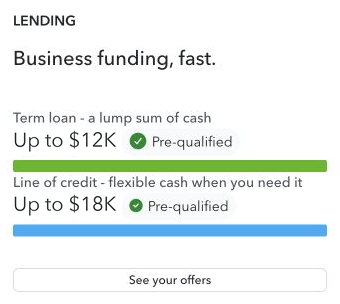
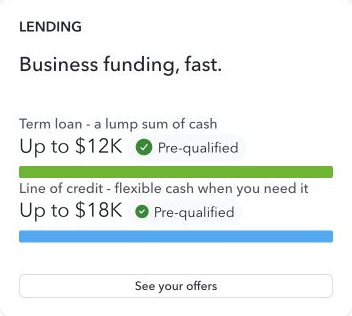
Restore breathing room around example clippings

diff --git a/index.html b/index.html
@@ -34,7 +34,7 @@
 <link rel="stylesheet" href="style.css">
 <link rel="stylesheet" href="articles.css">
 <link rel="stylesheet" href="home.css">
-<link rel="stylesheet" href="comparisons.css?v=3">
+<link rel="stylesheet" href="comparisons.css?v=4">
 <script defer src="comparisons.js?v=2"></script>
 <link rel="canonical" href="https://getparedo.app/">
 </head>
@@ -58,9 +58,9 @@
 <div class="paredo-examples" id="comparisons">
 <div class="noise-controls" hidden data-noise-controls><p id="noise-status" aria-live="polite">01 / 03 · Lending pitches</p><div class="noise-arrows"><button type="button" id="noise-prev" aria-label="Previous example">←</button><button type="button" id="noise-next" aria-label="Next example">→</button></div></div>
 <div class="noise-track" id="noise-track" tabindex="0" role="region" aria-label="Examples of clutter Paredo can hide. Swipe or use the arrow keys to browse.">
-<figure class="noise-slide" data-title="Lending pitches"><div class="noise-image"><img src="assets/comparisons/lending-detail.png?v=2" width="340" height="304" alt="QuickBooks Home lending card offering a term loan and a line of credit. Limits are illustrative." loading="lazy"></div><figcaption><p class="eyebrow">Lending pitches</p><h3>Your dashboard.<br>Without the funding pitch.</h3><p>A lending card takes up space with loan and credit offers. Paredo can tuck it away.</p><p class="noise-choice">Hidden with Paredo. Reveal it whenever you need it.</p></figcaption></figure>
-<figure class="noise-slide" data-title="Payroll upsells"><div class="noise-image"><img src="assets/comparisons/payroll-detail.png?v=2" width="340" height="304" alt="QuickBooks Home add-on card advertising payroll with a Try free for 30 days action." loading="lazy"></div><figcaption><p class="eyebrow">Payroll upsells</p><h3>Keep your books.<br>Skip the sales pitch.</h3><p>The Suggestions for you section can include offers for additional services, like this payroll add-on.</p><p class="noise-choice">Hidden with Paredo. Reveal the suggestions section whenever you need it.</p></figcaption></figure>
-<figure class="noise-slide" data-title="Suggestions"><div class="noise-image"><img src="assets/comparisons/suggestion-detail.png?v=2" width="340" height="304" alt="QuickBooks Home suggestion card with a product video, Add products. See where you stand headline, and See how action." loading="lazy"></div><figcaption><p class="eyebrow">Suggestions</p><h3>A tip when you want it.<br>Room when you don’t.</h3><p>Product tips and recommendations can wait while you focus on your bookkeeping.</p><p class="noise-choice">Hidden with Paredo. Reveal the suggestions section whenever you need it.</p></figcaption></figure>
+<figure class="noise-slide" data-title="Lending pitches"><div class="noise-image"><img src="assets/comparisons/lending-detail.png?v=3" width="352" height="316" alt="QuickBooks Home lending card offering a term loan and a line of credit. Limits are illustrative." loading="lazy"></div><figcaption><p class="eyebrow">Lending pitches</p><h3>Your dashboard.<br>Without the funding pitch.</h3><p>A lending card takes up space with loan and credit offers. Paredo can tuck it away.</p><p class="noise-choice">Hidden with Paredo. Reveal it whenever you need it.</p></figcaption></figure>
+<figure class="noise-slide" data-title="Payroll upsells"><div class="noise-image"><img src="assets/comparisons/payroll-detail.png?v=3" width="352" height="316" alt="QuickBooks Home add-on card advertising payroll with a Try free for 30 days action." loading="lazy"></div><figcaption><p class="eyebrow">Payroll upsells</p><h3>Keep your books.<br>Skip the sales pitch.</h3><p>The Suggestions for you section can include offers for additional services, like this payroll add-on.</p><p class="noise-choice">Hidden with Paredo. Reveal the suggestions section whenever you need it.</p></figcaption></figure>
+<figure class="noise-slide" data-title="Suggestions"><div class="noise-image"><img src="assets/comparisons/suggestion-detail.png?v=3" width="352" height="316" alt="QuickBooks Home suggestion card with a product video, Add products. See where you stand headline, and See how action." loading="lazy"></div><figcaption><p class="eyebrow">Suggestions</p><h3>A tip when you want it.<br>Room when you don’t.</h3><p>Product tips and recommendations can wait while you focus on your bookkeeping.</p><p class="noise-choice">Hidden with Paredo. Reveal the suggestions section whenever you need it.</p></figcaption></figure>
 </div>
 <div class="noise-selectors" role="group" aria-label="Choose an example" hidden data-noise-controls><button type="button" data-example="0" aria-pressed="true">Lending</button><button type="button" data-example="1" aria-pressed="false">Payroll</button><button type="button" data-example="2" aria-pressed="false">Suggestions</button></div>
 <p class="noise-note">Cropped from real QuickBooks Home captures with Paredo off. Lending limits are illustrative. Coverage varies by interface; important warnings remain available.</p>

diff --git a/comparisons.css b/comparisons.css
@@ -8,7 +8,7 @@
 .noise-track{display:flex;overflow-x:auto;scroll-snap-type:x mandatory;border:1px solid var(--line);border-radius:12px;background:var(--white);overscroll-behavior-x:contain}
 .homepage .noise-slide{flex:0 0 100%;width:100%;min-width:0;scroll-snap-align:start;scroll-snap-stop:always;margin:0;padding:40px;display:grid;grid-template-columns:minmax(0,1fr) minmax(0,1fr);gap:48px;align-items:center}
 .noise-image{min-width:0;padding:24px;background:#eef1e9;border-radius:8px;display:flex;align-items:center;justify-content:center}
-.homepage .noise-image img{width:100%;max-width:340px;height:auto;border:0;border-radius:0;display:block}
+.homepage .noise-image img{width:100%;max-width:352px;height:auto;border:0;border-radius:8px;display:block}
 .homepage .noise-slide figcaption{margin:0;min-width:0;max-width:440px;font-size:16px;line-height:24px}
 .noise-slide h3{font-size:30px;line-height:36px;font-weight:500;letter-spacing:-1px;margin:16px 0}
 .noise-slide figcaption>p:not(.eyebrow){color:var(--muted)}

diff --git a/README.md b/README.md
@@ -77,3 +77,5 @@ The carousel uses native horizontal scrolling and scroll snap for touch/no-scrip
 Validation: JavaScript syntax, whitespace, and 194 local asset/link/fragment checks across ten HTML pages passed. Browser review at 1280px and 375px showed no page overflow; arrows, example buttons, keyboard navigation, horizontal scrolling, and resize alignment worked. Cropped assets were visually inspected and retain no image metadata. Physical-device touch gestures were not separately tested.
 
 October 30 follow-up: trimmed another 10px from each edge of all three close-ups to remove the captured outer card borders/corners. Text and actions remain intact; image dimensions and cache revisions updated. Crops visually inspected, local link/asset checks and git diff --check passed.
+
+October 30 crop refinement: reduced the extra trim from 10px to 4px per edge after owner feedback, restoring space around labels and actions. An 8px display radius masks the remaining edge artifacts. Visual inspection and local link/asset checks passed.
